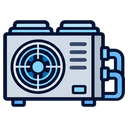
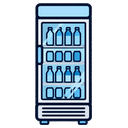
Winter Air 0.1.14

diff --git a/version.js b/version.js
@@ -1,17 +1,10 @@
 /* GENERATED by tools/build_version.py from version.json + CHANGELOG.md. Do not edit. */
 window.WS_BUILD = {
- "versionName": "0.1.13",
- "versionCode": 14,
+ "versionName": "0.1.14",
+ "versionCode": 15,
  "releasedAt": "2026-09-28",
  "notes": [
-  "**📄 Quotation.** On a new booking in the Inbox — and on a job until it is done — tap Quotation: the shop's own letter, with the page on top and the words below. Change the subject, each line (words, Qty, unit price) and the note. Save keeps it; Print or save as PDF makes the file to send on Messenger. Signed on the Conforme line, it is the agreement.",
-  "**The quotation is the price.** Accept, left blank, takes the quotation's total. On a job, saving the quotation changes the job's price, and the history says so.",
-  "**Admin → Quotation:** the letterhead, the signer, the usual note, and the signature (a photo of it on white paper — the white is taken out).",
-  "**The shop's own logo** on the quotation and the receipt.",
-  "**Book a job goes to the Inbox first,** marked \"By phone\": look it over, make the quotation, then Accept. From Customer files, Accept puts it on their file. The Numbers count the page's bookings only. A booking by phone can stay \"Not yet\" for a day.",
-  "**Aircon & Other Appliances.** Admin → Appliances: add a chiller, a freezer, a washing machine, a car aircon… with its picture (ours, or your own PNG), put them in order, rename them, Remove them (and bring them back). Tick the services each one offers — the booking page shows only those.",
-  "**Fixed:** the first tap after typing did nothing (type the address, tap Window) — it works on the first tap now.",
-  "**Faster booking page:** it downloads about a tenth of what it did."
+  "**New pictures for Admin → Appliances:** Chiller is now the glass-door drinks chiller, and Freezer is a chest freezer. The big outdoor unit is still there, as \"Industrial chiller\"."
  ],
  "updateUrl": "https://github.com/Winter-Air-Services/winter-air-services.github.io/releases/latest/download/update.json"
 };

diff --git a/index.html b/index.html
@@ -1650,7 +1650,10 @@ function aboutHtml(){
 const BUILTIN_TYPES = [{key: 'Window', label: 'Window', icon: 'ac-window'}, {key: 'Split', label: 'Split', icon: 'ac-split'},
   {key: 'Floor-mounted', label: 'Floor-mounted', icon: 'ac-floor'}, {key: 'Cassette', label: 'Cassette', icon: 'ac-cassette'}];
 // the pictures the owner can pick from (A3 adds his own PNG)
-const TYPE_ICONS = ['ac-window', 'ac-split', 'ac-floor', 'ac-cassette', 'chiller', 'freezer', 'washing-machine', 'car-aircon'];
+// chiller = the glass-door drinks chiller the owner meant (2026-09-28); the big outdoor unit
+// that was drawn first stays as industrial-chiller
+const TYPE_ICONS = ['ac-window', 'ac-split', 'ac-floor', 'ac-cassette', 'chiller', 'freezer', 'washing-machine', 'car-aircon',
+  'industrial-chiller'];
 let pubTypes = lsGet('ws_types', null);
 const typeRows = () => db && db.types && db.types.length ? db.types : pubTypes && pubTypes.length ? pubTypes : BUILTIN_TYPES;
 const activeTypes = () => typeRows().filter(t => t.active !== false);
